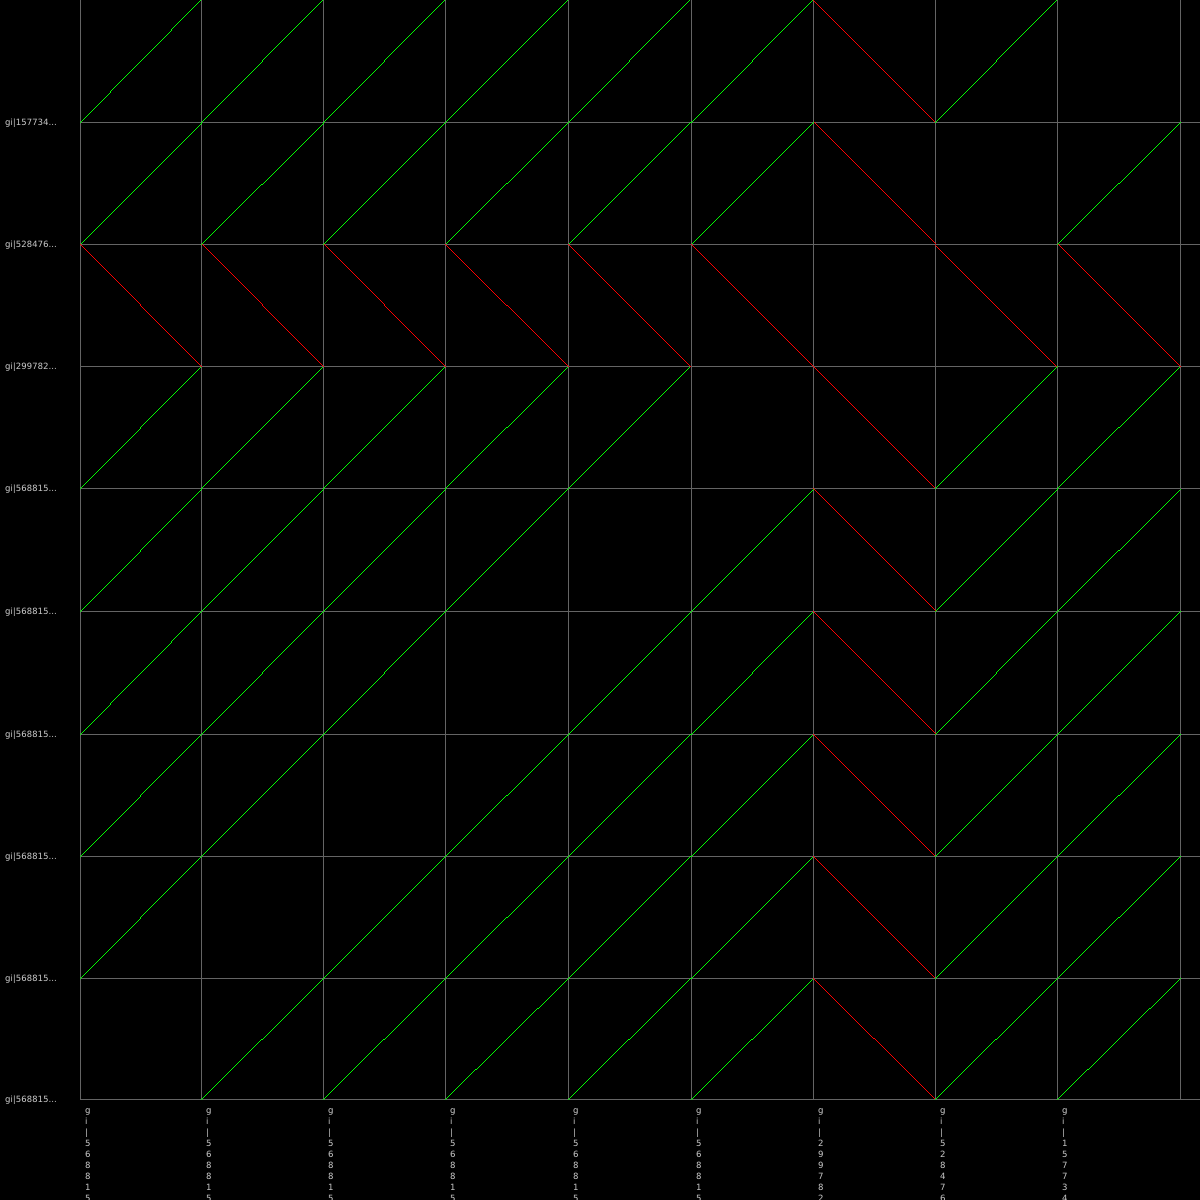
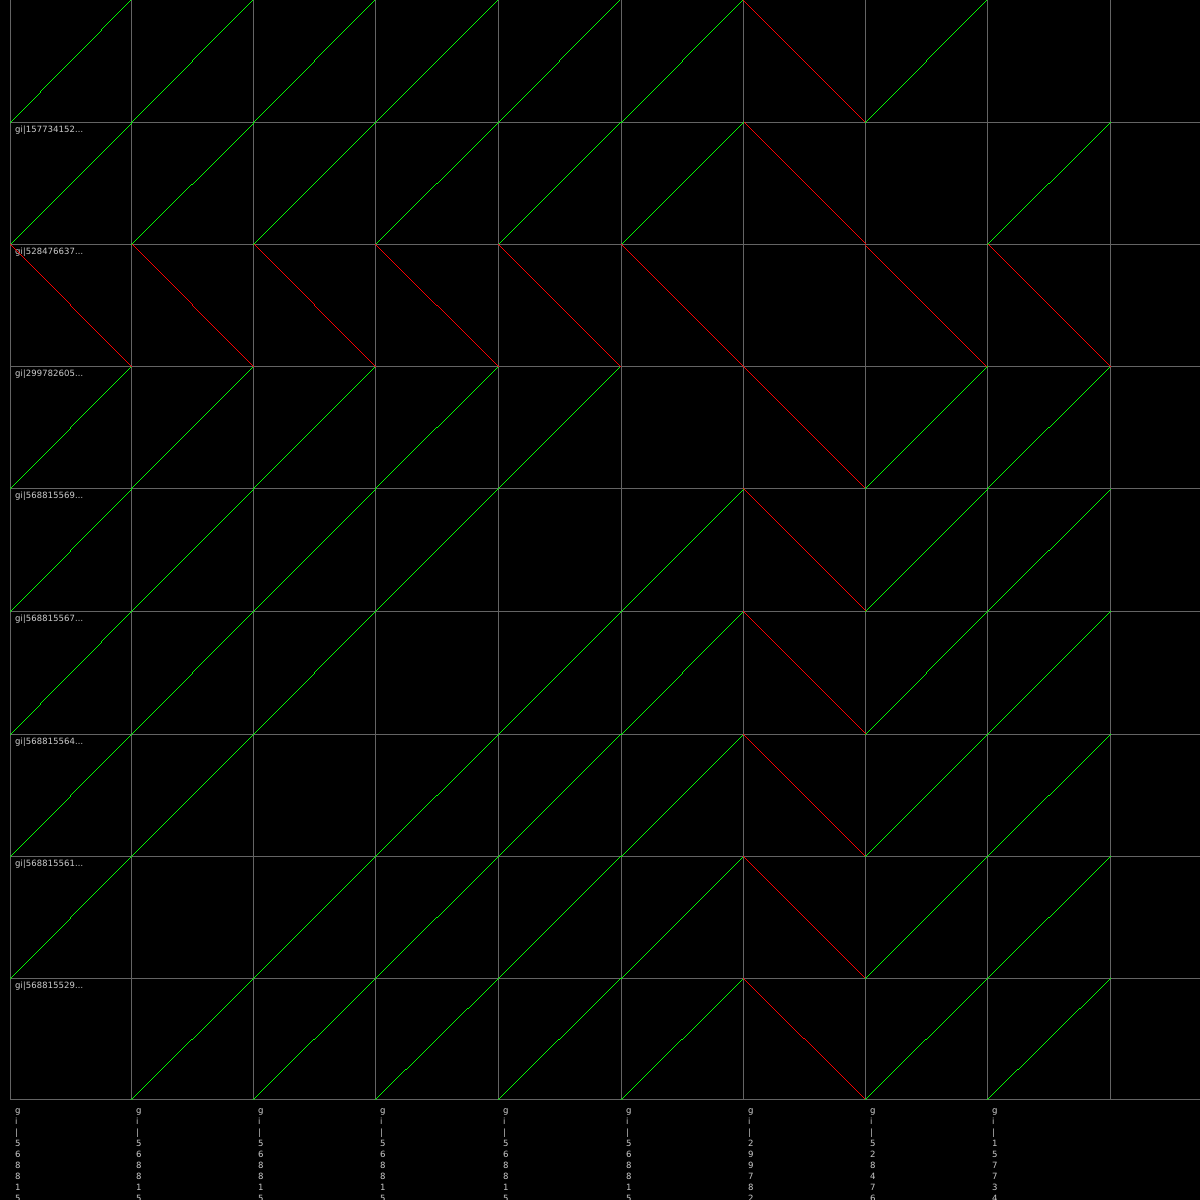
Improve sequence labeling and move tooltip to layers panel
PNG rendering improvements:
- Move target sequence labels from left margin to bottom of boundary lines
- Display target labels horizontally for better visibility
- Reduce left margin from 80px to 10px for more plot space
- Target labels now visible as you scan across the plot

GUI improvements:
- Remove hover tooltip popup
- Add permanent "Cursor Position" section to layers panel
- Display query and target sequence info continuously
- Shows sequence names, local positions, and genome coordinates
- Cursor info updates in real-time as mouse moves

This provides a cleaner, more informative interface where sequence
information is always visible rather than requiring hover.

diff --git a/src/main.rs b/src/main.rs
@@ -214,8 +214,8 @@ fn render_plot_to_png(
     use image::{Rgba, RgbaImage};
     use imageproc::drawing::draw_text_mut;
 
-    // Add margin for labels (80px left for y-axis labels, 100px bottom for x-axis labels)
-    let margin_left = 80;
+    // Add margin for labels (10px left padding, 100px bottom for x-axis labels)
+    let margin_left = 10;
     let margin_bottom = 100;
     let plot_width = width - margin_left;
     let plot_height = height - margin_bottom;
@@ -313,20 +313,22 @@ fn render_plot_to_png(
             }
         }
 
-        // Draw sequence name label on Y-axis (natural orientation)
+        // Draw sequence name label horizontally at the bottom of the boundary line
+        // This keeps it visible as you scan across the plot
         if idx < plot.target_sequences.len() {
             let name = &plot.target_sequences[idx];
-            // Truncate long names
-            let display_name = if name.len() > 12 {
-                format!("{}...", &name[..9])
+            // Truncate long names for display
+            let display_name = if name.len() > 15 {
+                format!("{}...", &name[..12])
             } else {
                 name.to_string()
             };
 
-            let label_x = 5;
-            let label_y = py - 5;
+            // Position at left edge, just below the boundary line
+            let label_x = (margin_left + 5) as i32;
+            let label_y = py + 2; // Just below the line
 
-            if label_y >= 0 && label_y < plot_height as i32 {
+            if label_y >= 0 && label_y < plot_height as i32 - 10 {
                 draw_text_mut(
                     &mut img,
                     Rgba([200, 200, 200, 255]),
@@ -434,6 +436,14 @@ struct AlnViewApp {
     box_zoom_start: Option<egui::Pos2>, // Shift+drag box zoom
     #[allow(dead_code)]
     selected_segment: Option<usize>, // For x/X key selection (future feature)
+
+    // Cursor position info (for display in layers panel)
+    cursor_query_name: String,
+    cursor_query_pos: i64,
+    cursor_target_name: String,
+    cursor_target_pos: i64,
+    cursor_genome_x: f64,
+    cursor_genome_y: f64,
 }
 
 #[derive(Clone)]
@@ -486,6 +496,12 @@ impl Default for AlnViewApp {
             plot_receiver: None,
             box_zoom_start: None,
             selected_segment: None,
+            cursor_query_name: String::new(),
+            cursor_query_pos: 0,
+            cursor_target_name: String::new(),
+            cursor_target_pos: 0,
+            cursor_genome_x: 0.0,
+            cursor_genome_y: 0.0,
         }
     }
 }
@@ -638,6 +654,25 @@ impl eframe::App for AlnViewApp {
 
                 ui.separator();
                 ui.label(format!("Scale: {:.1} bp/px", self.view.scale));
+
+                ui.separator();
+                ui.heading("Cursor Position");
+                ui.separator();
+
+                // Display cursor information
+                if !self.cursor_query_name.is_empty() {
+                    ui.label(egui::RichText::new("Query:").strong());
+                    ui.label(format!("  {}", truncate_name(&self.cursor_query_name, 30)));
+                    ui.label(format!("  Position: {} bp (local)", self.cursor_query_pos));
+                    ui.label(format!("  Genome: {:.0} bp", self.cursor_genome_x));
+                    ui.add_space(5.0);
+                    ui.label(egui::RichText::new("Target:").strong());
+                    ui.label(format!("  {}", truncate_name(&self.cursor_target_name, 30)));
+                    ui.label(format!("  Position: {} bp (local)", self.cursor_target_pos));
+                    ui.label(format!("  Genome: {:.0} bp", self.cursor_genome_y));
+                } else {
+                    ui.label("Move cursor over plot");
+                }
             });
 
         // Status bar
@@ -900,7 +935,7 @@ impl AlnViewApp {
         // Draw scale/axes
         self.draw_axes(ui, &painter, rect);
 
-        // Draw hover tooltip with sequence info
+        // Update cursor position info (displayed in layers panel)
         if let Some(ref plot) = self.plot {
             if let Some(hover_pos) = response.hover_pos() {
                 // Convert screen position to genome coordinates
@@ -916,23 +951,13 @@ impl AlnViewApp {
                 let (_target_idx, target_name, target_local) =
                     plot.target_coord_to_sequence(genome_y as i64);
 
-                // Truncate long names for tooltip
-                let query_short = truncate_name(&query_name, 50);
-                let target_short = truncate_name(&target_name, 50);
-
-                // Show tooltip
-                response.on_hover_ui(|ui| {
-                    ui.set_max_width(400.0);
-                    ui.label(egui::RichText::new("Query:").strong());
-                    ui.label(format!("  {query_short}"));
-                    ui.label(format!("  Position: {query_local} bp (local)"));
-                    ui.label(format!("  Genome: {genome_x:.0} bp"));
-                    ui.separator();
-                    ui.label(egui::RichText::new("Target:").strong());
-                    ui.label(format!("  {target_short}"));
-                    ui.label(format!("  Position: {target_local} bp (local)"));
-                    ui.label(format!("  Genome: {genome_y:.0} bp"));
-                });
+                // Update cursor info fields (displayed in layers panel)
+                self.cursor_query_name = query_name;
+                self.cursor_query_pos = query_local;
+                self.cursor_target_name = target_name;
+                self.cursor_target_pos = target_local;
+                self.cursor_genome_x = genome_x;
+                self.cursor_genome_y = genome_y;
             }
         }
     }
